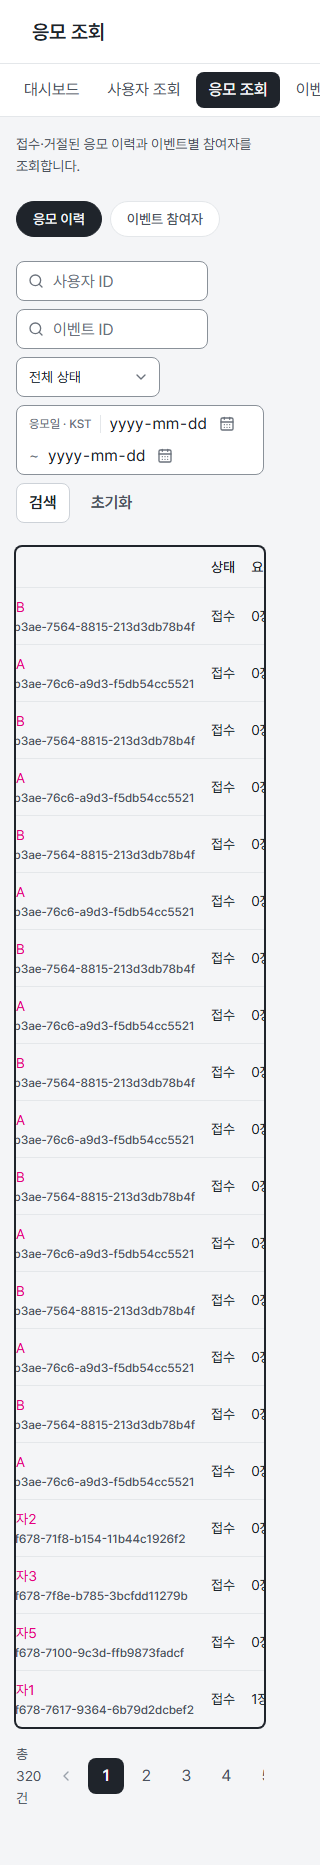
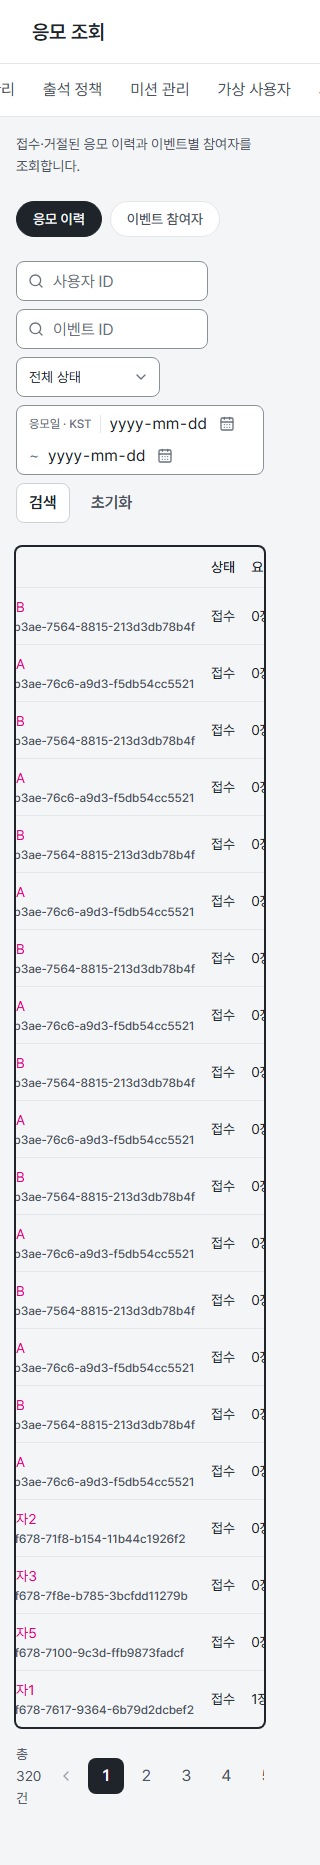
chore(GD-328): 코드레빗 리뷰 반영 — 검증 스크립트 강화
- verifyGd328W320: region 포커스를 focus() 대신 실제 Tab 순회로 검증,
  참여자 탭 eventId 미확보·브라우저 오류 발생 시 비정상 종료로 실패 처리
- diagnoseW320Overflow: BASE를 GD328_BASE env로 설정 가능하게 하고
  기본값을 문서화된 5199로 정정, 스크롤 컨테이너 클립 검사 추가로
  의도된 표 내부 스크롤을 넘침으로 오분류하지 않게 수정
- 실서버 프록시 재검증 통과(넘침 0·Tab 진입·화살표 스크롤·오류 0), 증거 재생성

Changed region(s): [[0.3438, 0.0311, 0.9062, 0.0622], [0.0938, 0.0311, 0.3125, 0.0622], [0.9375, 0.0311, 1.0, 0.0622]]

diff --git a/scripts/verifyGd328W320.py b/scripts/verifyGd328W320.py
@@ -102,10 +102,15 @@ def measure(page, path, region_name):
     if metrics['navExists']:
         assert metrics['navContained'], f'{path} 페이지네이션이 화면 밖으로 밀렸다'
 
-    # region 키보드 진입 + 화살표 스크롤 — 표가 좁은 화면보다 넓을 때만 스크롤 단정
+    # region 키보드 진입 + 화살표 스크롤 — Tab 순서로 도달해야 한다
+    # (focus()는 tabIndex가 없어도 성공하므로 진입 가능 여부를 검증하지 못한다)
     region = page.get_by_role('region', name=region_name)
-    region.focus()
-    focused = region.evaluate('(el) => el === document.activeElement')
+    focused = False
+    for _ in range(60):
+        page.keyboard.press('Tab')
+        if region.evaluate('(el) => el === document.activeElement'):
+            focused = True
+            break
     scroll_before = region.evaluate('(el) => el.scrollLeft')
     for _ in range(10):
         page.keyboard.press('ArrowRight')
@@ -122,6 +127,8 @@ def measure(page, path, region_name):
         assert scroll_after > scroll_before, f'{path} ArrowRight로 표가 스크롤되지 않았다'
     return metrics
 
+
+failures = []
 
 with sync_playwright() as p:
     browser = p.chromium.launch(headless=True)
@@ -156,9 +163,16 @@ with sync_playwright() as p:
         measure(page, f'/admin/entries?view=participants&eventId={event_id}', '참여자 표 가로 스크롤')
         page.screenshot(path=str(IMAGES / 'participants.png'), full_page=True)
     else:
-        check('참여자 탭', skipped='응모 이력에서 eventId를 얻지 못해 생략')
+        check(
+            '참여자 탭',
+            ok=False,
+            reason='응모 이력 API 실패 또는 첫 행에 eventId 없음 — 검증 데이터 부족',
+        )
+        failures.append('참여자 탭 검증 불가: eventId를 얻지 못했다')
 
     browser.close()
 
 check('콘솔 오류', count=len(evidence['errors']), errors=evidence['errors'])
+assert not evidence['errors'], f"브라우저 오류 {len(evidence['errors'])}건: {evidence['errors'][:3]}"
+assert not failures, '; '.join(failures)
 print(f"\n증거 기록: {OUTPUT} ({len(evidence['checks'])} checks)")

diff --git a/scripts/diagnoseW320Overflow.py b/scripts/diagnoseW320Overflow.py
@@ -1,11 +1,15 @@
-"""320px 넘침 진단 — MSW dev 서버(5199)에서 넘치는 요소를 열거한다. 진단용 일회성 스크립트."""
+"""320px 넘침 진단 — MSW dev 서버(5199)에서 넘치는 요소를 열거한다. 진단용 일회성 스크립트.
+
+환경변수 GD328_BASE로 대상을 바꿀 수 있다 (기본 http://localhost:5199).
+"""
 import json
+import os
 import sys
 from pathlib import Path
 
 from playwright.sync_api import sync_playwright
 
-BASE = 'http://localhost:5200'
+BASE = os.environ.get('GD328_BASE', 'http://localhost:5199').rstrip('/')
 OUT = Path('reports/gd328-w320-diagnose.json')
 
 # 화면 밖으로 삐져나온 요소(overDoc)와, overflow가 visible인 채 내용이 넓은 요소(innerLeak)를 잡는다.
@@ -26,7 +30,13 @@ SCAN = """() => {
         const r = el.getBoundingClientRect();
         if (r.width === 0 || r.height === 0) continue;
         const cs = getComputedStyle(el);
-        const overDoc = r.right > vw + 1 || r.left < -1;
+        // 스크롤 컨테이너 안쪽에 클립된 콘텐츠는 문서 넘침이 아니므로 걸러 낸다
+        let clipped = false;
+        for (let p = el.parentElement; p; p = p.parentElement) {
+            const pc = getComputedStyle(p);
+            if (/(auto|scroll|hidden|clip)/.test(pc.overflowX)) { clipped = true; break; }
+        }
+        const overDoc = (r.right > vw + 1 || r.left < -1) && !clipped;
         const innerLeak = el.scrollWidth > el.clientWidth + 1 && cs.overflowX === 'visible';
         if (overDoc || innerLeak) {
             bad.push({
